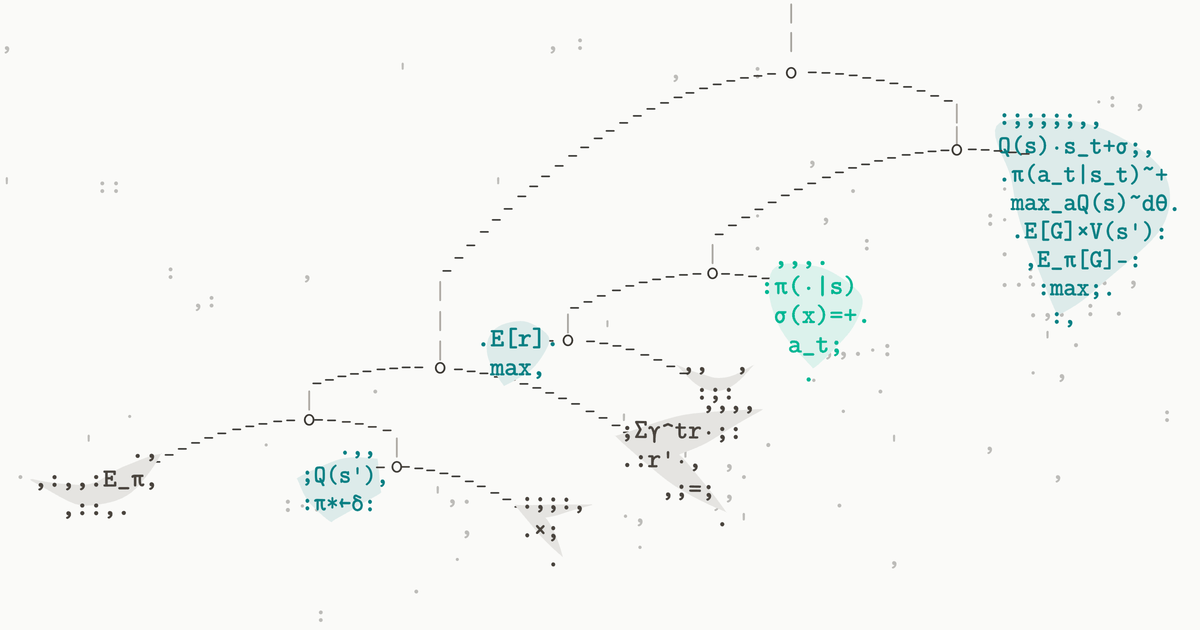
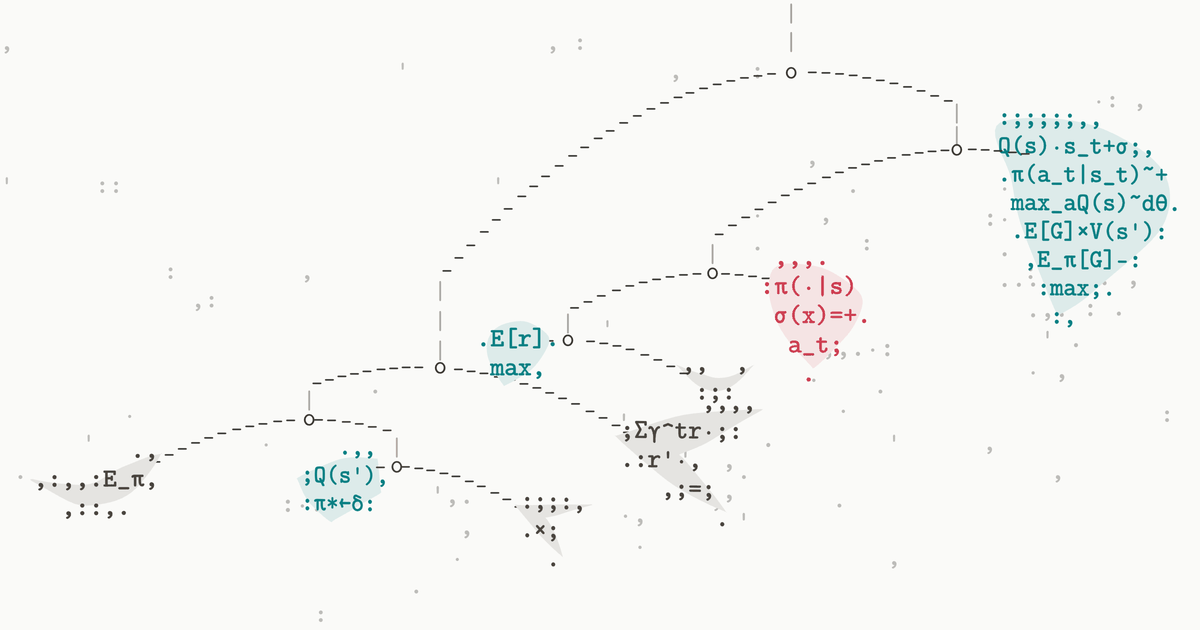
Red-pink sheet, calmer flashes, more room around the text and sculpture
- The jade sheet and its flashes are now #CE3F52 (#d86471 in dark mode)
- Flashes are half brown, with no glow, and a quarter each red-pink and teal
- Hovering the Cambrian explosion flashes 14 lines instead of 24
- Fainter contour lines in dark mode; wider clear space around the text and the sculpture
- Share and README images recaptured

Changed region(s): [[0.6167, 0.3921, 0.74, 0.573]]

diff --git a/components/field/gl-glyphs.ts b/components/field/gl-glyphs.ts
@@ -17,6 +17,7 @@ uniform float u_cell;
 uniform float u_kinds;
 uniform float u_glow; // > 0 for the glow pass: each tinted character's halo, this strong
 uniform float u_glowKind;
+uniform vec3 u_hueGlow; // how much glow each of the three accent colors gets (0 for none)
 out vec2 v_uv;
 out float v_alpha;
 out vec2 v_tint;
@@ -25,7 +26,8 @@ void main() {
   gl_Position = vec4(p.x / u_res.x * 2.0 - 1.0, 1.0 - p.y / u_res.y * 2.0, 0.0, 1.0);
   float kind = u_glow > 0.0 ? u_glowKind : a_kind;
   v_uv = vec2((kind + a_corner.x) / u_kinds, a_corner.y);
-  v_alpha = u_glow > 0.0 ? a_alpha * a_tint.x * u_glow : a_alpha;
+  float hueGlow = a_tint.y < 0.5 ? u_hueGlow.x : a_tint.y < 1.5 ? u_hueGlow.y : u_hueGlow.z;
+  v_alpha = u_glow > 0.0 ? a_alpha * a_tint.x * u_glow * hueGlow : a_alpha;
   v_tint = a_tint;
 }`;
 
@@ -56,6 +58,8 @@ export interface GlyphLayer {
   setAtlas(atlas: HTMLCanvasElement, cell: number, kinds: number, ink: string): void;
   /** The three accent colors a character can be tinted toward. */
   setHues(first: string, second: string, third: string): void;
+  /** How much of the glow each of the three accent colors gets (1 all of it, 0 none). */
+  setHueGlows(first: number, second: number, third: number): void;
   /** Each character's top-left corner (device px) and sprite. */
   setGlyphs(x: Int32Array, y: Int32Array, kind: Uint8Array): void;
   /**
@@ -108,6 +112,8 @@ export function glyphLayer(canvas: HTMLCanvasElement): GlyphLayer | null {
   const uHue2 = uniform("u_hue2");
   const uGlow = uniform("u_glow");
   const uGlowKind = uniform("u_glowKind");
+  const uHueGlow = uniform("u_hueGlow");
+  gl.uniform3f(uHueGlow, 1, 1, 1);
   gl.uniform1i(uniform("u_atlas"), 0);
 
   const vao = gl.createVertexArray();
@@ -168,6 +174,11 @@ export function glyphLayer(canvas: HTMLCanvasElement): GlyphLayer | null {
       gl.uniform3f(uHue0, ...rgb(first, "#00b894"));
       gl.uniform3f(uHue1, ...rgb(second, "#4a433c"));
       gl.uniform3f(uHue2, ...rgb(third, "#087f83"));
+    },
+
+    setHueGlows(first, second, third) {
+      use();
+      gl.uniform3f(uHueGlow, first, second, third);
     },
 
     setGlyphs(x, y, kind) {

diff --git a/components/field/config.ts b/components/field/config.ts
@@ -77,11 +77,19 @@ export const FIELD = {
    * Flashes: now and then a whole line takes on one of the sculpture's sheet colors (--jade,
    * the brown --mobile-ink or --teal, picked in proportion to `colors`) and lets it go again,
    * rising and falling over `duration` s, its opacity reaching `alpha` at the peak, with a
-   * faint halo of the color around it (`glow`, as a share of the line's own opacity). On
+   * faint halo of the color around it (`glow`, as a share of the line's own opacity, times
+   * that color's share in `glows`: 0 gives it no halo). On
    * average one starts every `every` s somewhere on screen, so any one line flashes only every
    * few minutes. Drawn on the GPU only; held still with reduced motion.
    */
-  flash: { every: 4, duration: 1.9, alpha: 0.25, colors: { jade: 1, brown: 1, teal: 1 }, glow: 0.12 },
+  flash: {
+    every: 4,
+    duration: 1.9,
+    alpha: 0.25,
+    colors: { jade: 1, brown: 2, teal: 1 },
+    glow: 0.12,
+    glows: { jade: 1, brown: 0, teal: 1 },
+  },
 
   /**
    * Bursts: the pointer coming onto the "Cambrian explosion" link (anything marked
@@ -89,7 +97,7 @@ export const FIELD = {
    * opacity `alpha` and lasting `duration` s, their starts scattered over `spread` s. Another
    * can't start until `cooldown` s after the last.
    */
-  burst: { count: 24, alpha: 0.5, duration: 2.9, spread: 0.6, cooldown: 1.5 },
+  burst: { count: 14, alpha: 0.5, duration: 2.9, spread: 0.6, cooldown: 1.5 },
 
   /**
    * The share image (app/thumbnail): whether it has the background at all (`show`), and if so,

diff --git a/app/globals.css b/app/globals.css
@@ -69,7 +69,7 @@
   --ink: #26251e;
   /* The two accent colors, on the sculpture's sheets. Both, with the brown --mobile-ink below,
      also flash now and then along a contour line. */
-  --jade: #00b894;
+  --jade: #ce3f52;
   --teal: #087f83;
 
   /* The arms, and the sheets' three text colors: teal, jade (one sheet, under the key
@@ -89,6 +89,10 @@
 
   /* Height of the mobile when it sits above the text on narrow screens. */
   --mobile-h: clamp(260px, 82vw, 440px);
+
+  /* How far the clear space around the text and the sculpture reaches, as a multiple of
+     FIELD.text and FIELD.art (components/field/config.ts). */
+  --field-spread: 1.12;
 }
 
 /*
@@ -101,7 +105,7 @@
   :root {
     --paper: #0f0e0b;
     --ink: #f2f0eb;
-    --jade: #2cc9a0;
+    --jade: #d86471;
     --teal: #5ab1b5;
 
     --mobile-wire: #b9b3a8;
@@ -112,10 +116,10 @@
 
     /* The background lines a little fainter than in light mode (FIELD.glyph.alpha, 0.12), and
        the flashes' glow a little softer (FIELD.flash.glow, 0.12): light on dark reads stronger. */
-    --field-alpha: 0.062;
+    --field-alpha: 0.054;
     --field-glow: 0.07;
     /* The clear space around the text and the sculpture reaching a little further. */
-    --field-spread: 1.15;
+    --field-spread: 1.3;
   }
 }
 

diff --git a/components/field/draw-field.ts b/components/field/draw-field.ts
@@ -425,6 +425,8 @@ export function runField(
     glow = num("--field-glow", FIELD.flash.glow);
     spread = num("--field-spread", 1);
     layer?.setHues(hue("--jade"), hue("--mobile-ink"), hue("--teal"));
+    const lit = FIELD.flash.glows;
+    layer?.setHueGlows(lit.jade, lit.brown, lit.teal);
 
     trace();
     drawAtlas();
